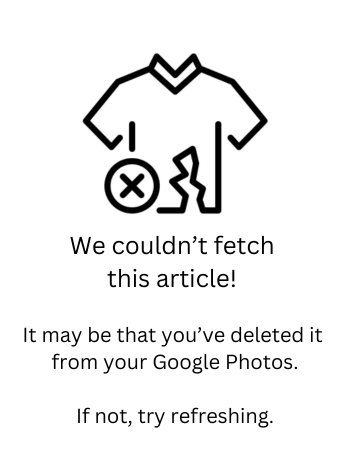
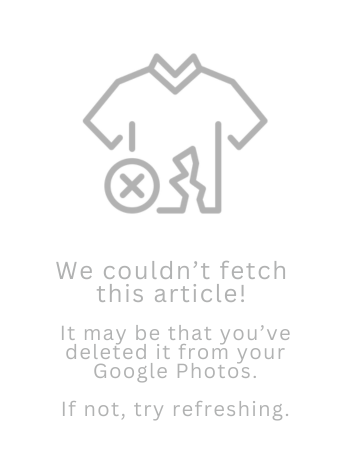
use missing article image on article page so they're able to delete

diff --git a/app/googleService/client/updateGoogleUrl.ts b/app/googleService/client/updateGoogleUrl.ts
@@ -27,7 +27,7 @@ const updateGoogleUrl = (article: Article, attemptCounter: number): Promise<Arti
                         return { ...article, image: { ...googleMetaData } } as Article;
                     })
                     .catch((error) => {
-                        if (attemptCounter > 1) throw error;
+                        if (attemptCounter > 1) return { ...article, image: { imageId: article.image.imageId, baseUrl: "/missing-article.png" } } as Article;
                         return updateGoogleUrl(article, attemptCounter)
                     })
             } else {
